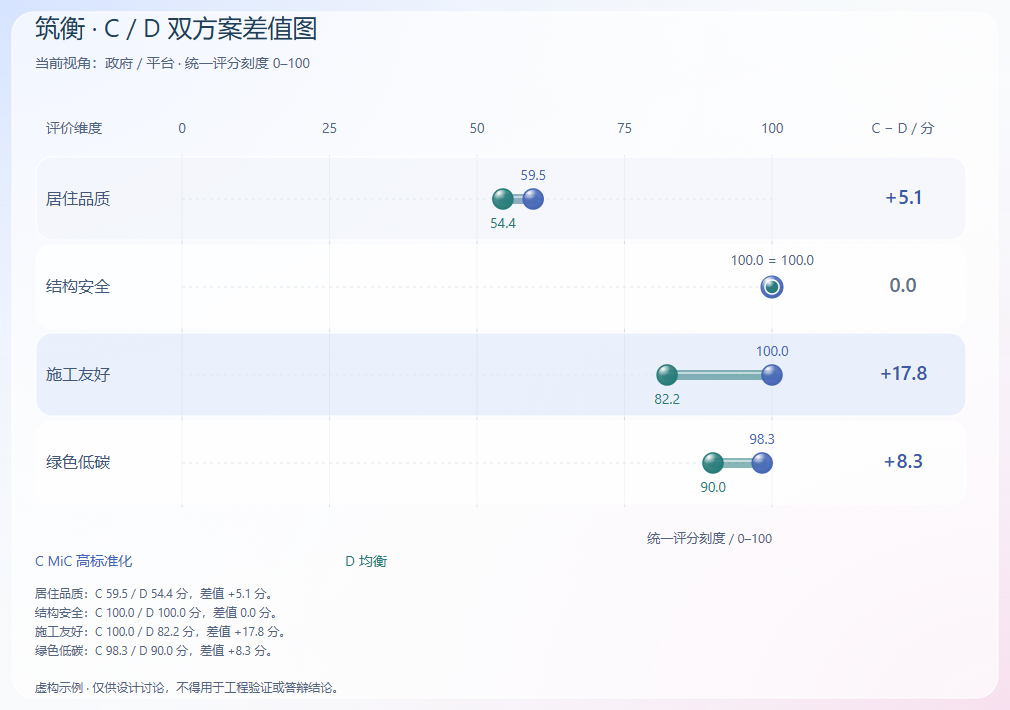
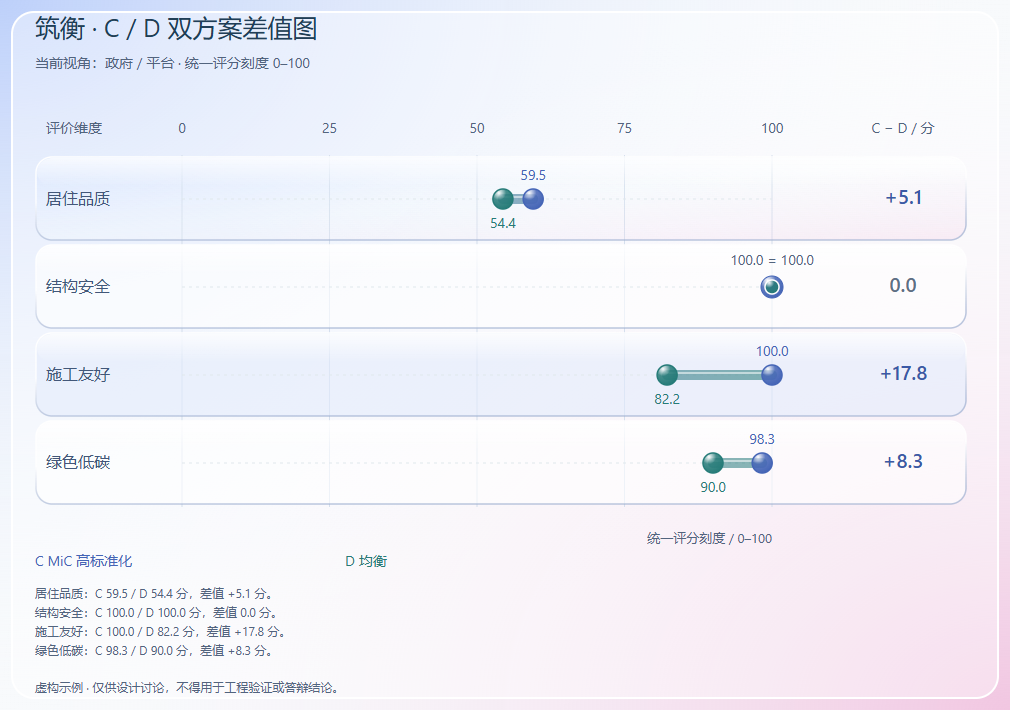
design: strengthen glass panels and chart surfaces with before-after evidence

diff --git a/design/prototype/comparison.js b/design/prototype/comparison.js
@@ -34,10 +34,10 @@ const signed = value => valid(value) ? `${Math.abs(value) < 1e-8 ? '0.0' : `${va
 // Self-contained SVG paint definitions also survive standalone export.
 // Only painted highlights: exact circle centers and score coordinates stay intact.
 function glassDefs(prefix) {
-  return `<defs>${schemes.map(s=>`<radialGradient id="${prefix}-bead-${s.id}" cx="30%" cy="20%" r="85%"><stop offset="0" stop-color="#fff" stop-opacity=".8"/><stop offset=".42" stop-color="${pointColors[s.id]}" stop-opacity=".85"/><stop offset="1" stop-color="${pointColors[s.id]}"/></radialGradient>`).join('')}<linearGradient id="${prefix}-plane" x2="1" y2="1"><stop stop-color="#eef3ff" stop-opacity=".8"/><stop offset=".5" stop-color="#fff" stop-opacity=".5"/><stop offset="1" stop-color="#fbecf5" stop-opacity=".65"/></linearGradient></defs>`;
+  return `<defs>${schemes.map(s=>`<radialGradient id="${prefix}-bead-${s.id}" cx="30%" cy="20%" r="85%"><stop offset="0" stop-color="#fff" stop-opacity=".8"/><stop offset=".42" stop-color="${pointColors[s.id]}" stop-opacity=".85"/><stop offset="1" stop-color="${pointColors[s.id]}"/></radialGradient>`).join('')}<linearGradient id="${prefix}-plane" x2="1" y2="1"><stop stop-color="#cbdcff" stop-opacity=".75"/><stop offset=".5" stop-color="#f5fdff" stop-opacity=".3"/><stop offset="1" stop-color="#f2cfe7" stop-opacity=".55"/></linearGradient><linearGradient id="${prefix}-rim" x2=".3" y2="1"><stop stop-color="#fff"/><stop offset=".5" stop-color="#fff" stop-opacity=".85"/><stop offset="1" stop-color="#9eafd0" stop-opacity=".7"/></linearGradient><linearGradient id="${prefix}-sheen" x2="0" y2="1"><stop stop-color="#fff" stop-opacity=".8"/><stop offset="1" stop-color="#fff" stop-opacity="0"/></linearGradient></defs>`;
 }
 function exportGlassBackdrop(width,height) {
-  return `<defs><radialGradient id="export-blue" cx="0" cy="0" r="1"><stop stop-color="#d6e3ff"/><stop offset="1" stop-color="#f8fafc" stop-opacity="0"/></radialGradient><radialGradient id="export-pink" cx="1" cy="1" r="1"><stop stop-color="#f7e0ef"/><stop offset="1" stop-color="#f8fafc" stop-opacity="0"/></radialGradient></defs><rect width="${width}" height="${height}" fill="#f8fafc"/><rect width="${width}" height="${height}" fill="url(#export-blue)"/><rect width="${width}" height="${height}" fill="url(#export-pink)"/><rect x="12" y="12" width="${width-24}" height="${height-24}" rx="22" fill="#fff" fill-opacity=".65" stroke="#fff"/>`;
+  return `<defs><radialGradient id="export-blue" cx="0" cy="0" r="1"><stop stop-color="#bdd0fa"/><stop offset="1" stop-color="#f8fafc" stop-opacity="0"/></radialGradient><radialGradient id="export-pink" cx="1" cy="1" r="1"><stop stop-color="#f1c6e1"/><stop offset="1" stop-color="#f8fafc" stop-opacity="0"/></radialGradient></defs><rect width="${width}" height="${height}" fill="#f8fafc"/><rect width="${width}" height="${height}" fill="url(#export-blue)"/><rect width="${width}" height="${height}" fill="url(#export-pink)"/><rect x="12" y="12" width="${width-24}" height="${height-24}" rx="22" fill="#fff" fill-opacity=".4" stroke="#fff" stroke-width="2"/>`;
 }
 
 function heat(value) {
@@ -76,7 +76,7 @@ function makePlot() {
     const lineY = Math.max(labelBox.y, Math.min(labelBox.y + labelBox.h, py));
     return `<g class="svg-point" data-point="${id}" role="button" tabindex="0" aria-label="${escapeText(s.name)}，${dimensions[state.x].name} ${one(xv)}分，${dimensions[state.y].name} ${one(yv)}分${isPareto(id) ? '，四维非劣' : ''}"><title>${escapeText(s.name)} · ${one(xv)}, ${one(yv)}${excluded(id) ? ' · 硬约束未通过' : isPareto(id) ? ' · 四维非劣' : ''}</title><line x1="${px}" y1="${py}" x2="${lineX}" y2="${lineY}" stroke="${color}" stroke-opacity=".4"/>${selected ? `<circle cx="${px}" cy="${py}" r="25" fill="${color}" fill-opacity=".12"/>` : ''}${isPareto(id) ? `<circle class="pareto-ring" cx="${px}" cy="${py}" r="18" fill="none" stroke="${color}" stroke-width="1.5"/>` : ''}<circle class="point-core" cx="${px}" cy="${py}" r="12" fill="${excluded(id) ? '#fff' : `url(#map-bead-${id})`}" stroke="${color}" stroke-width="2" ${excluded(id) ? 'stroke-dasharray="3 2"' : ''}/><text x="${px}" y="${py + 4}" text-anchor="middle" fill="${excluded(id) ? color : '#fff'}" font-size="12" font-weight="600" pointer-events="none">${s.letter}</text><rect class="point-label-box" x="${labelBox.x}" y="${labelBox.y}" width="${w}" height="${h}" fill="${selected ? '#e6f0f6' : '#fff'}" fill-opacity=".93" rx="9"/><text x="${labelBox.x + 6}" y="${labelBox.y + 19}" fill="${color}" font-size="14" font-weight="${selected ? 600 : 500}" pointer-events="none">${escapeText(label)}</text></g>`;
   }).join('');
-  return `<svg id="scatter-svg" xmlns="http://www.w3.org/2000/svg" viewBox="0 0 ${W} ${H}" role="img" aria-label="${dimensions[state.x].name}与${dimensions[state.y].name}二维取舍图" style="font-family:Segoe UI,Microsoft YaHei,sans-serif">${glassDefs('map')}<rect x="${left}" y="${top}" width="${width}" height="${height}" fill="url(#map-plane)" stroke="#cbd6e9" rx="18"/>${lines}<text x="${left}" y="22" fill="#425779" font-size="15">${dimensions[state.y].name} / 100 分 ↑</text><text x="${left + width}" y="${H - 10}" text-anchor="end" fill="#425779" font-size="15">${dimensions[state.x].name} / 100 分 →</text>${points}</svg>`;
+  return `<svg id="scatter-svg" xmlns="http://www.w3.org/2000/svg" viewBox="0 0 ${W} ${H}" role="img" aria-label="${dimensions[state.x].name}与${dimensions[state.y].name}二维取舍图" style="font-family:Segoe UI,Microsoft YaHei,sans-serif">${glassDefs('map')}<rect x="${left}" y="${top}" width="${width}" height="${height}" fill="url(#map-plane)" stroke="url(#map-rim)" stroke-width="2" rx="18"/><rect x="${left+1}" y="${top+1}" width="${width-2}" height="${height*.27}" rx="18" fill="url(#map-sheen)" pointer-events="none"/>${lines}<text x="${left}" y="22" fill="#425779" font-size="15">${dimensions[state.y].name} / 100 分 ↑</text><text x="${left + width}" y="${H - 10}" text-anchor="end" fill="#425779" font-size="15">${dimensions[state.x].name} / 100 分 →</text>${points}</svg>`;
 }
 
 function mapSchemes() {
@@ -102,7 +102,7 @@ function makePairPlot() {
     const y = top + 44 + rowGap * index, va = score(a.id, index), vb = score(b.id, index), delta = pairDifference(index);
     const validA = valid(va), validB = valid(vb), same = validA && validB && Math.abs(delta) < 1e-8;
     const points = same ? `<circle cx="${x(va)}" cy="${y}" r="11" fill="url(#pair-bead-${a.id})" stroke="${ca}"/><circle cx="${x(vb)}" cy="${y}" r="7" fill="url(#pair-bead-${b.id})" stroke="#fff" stroke-width="1.5"/><text x="${x(va)}" y="${y - 22}" text-anchor="middle" fill="#52647e" font-size="14">${one(va)} = ${one(vb)}</text>` : `${validA ? `<circle cx="${x(va)}" cy="${y}" r="10" fill="url(#pair-bead-${a.id})" stroke="${ca}" stroke-width="1.5"/><text x="${x(va)}" y="${y - 19}" text-anchor="middle" fill="${ca}" font-size="14">${one(va)}</text>` : ''}${validB ? `<circle cx="${x(vb)}" cy="${y}" r="10" fill="url(#pair-bead-${b.id})" stroke="${cb}" stroke-width="1.5"/><text x="${x(vb)}" y="${y + 29}" text-anchor="middle" fill="${cb}" font-size="14">${one(vb)}</text>` : ''}`;
-    return `<g data-pair-row="${index}" role="button" tabindex="0" class="svg-point" aria-label="${dim.name}，${a.letter} ${one(va)}分，${b.letter} ${one(vb)}分，差值 ${signed(delta)}分，查看评分依据"><title>${dim.name}：${a.letter} ${one(va)} / ${b.letter} ${one(vb)} 分</title><rect x="6" y="${y - 42}" width="930" height="83" rx="16" stroke="#fff" fill="${state.dimension === index ? '#e3ebfc' : index % 2 === 0 ? '#f3f5fc' : '#fff'}" fill-opacity=".7"/><text x="16" y="${y + 5}" fill="#425779" font-size="16">${dim.name}</text><line x1="${left}" y1="${y}" x2="${left + width}" y2="${y}" stroke="#e0e8ed" stroke-dasharray="3 4"/>${validA && validB ? `<line x1="${x(va)}" y1="${y}" x2="${x(vb)}" y2="${y}" stroke="url(#pair-bridge)" stroke-opacity=".55" stroke-width="10" stroke-linecap="round"/><line x1="${x(va)}" y1="${y-2}" x2="${x(vb)}" y2="${y-2}" stroke="#fff" stroke-opacity=".7" stroke-width="1.5" stroke-linecap="round"/>` : ''}${points}<text class="pair-difference" x="873" y="${y + 5}" text-anchor="middle" font-size="20" font-weight="600" fill="${!valid(delta) || same ? '#5e6f86' : delta > 0 ? '#3b59a6' : '#92612c'}">${signed(delta)}</text></g>`;
+    return `<g data-pair-row="${index}" role="button" tabindex="0" class="svg-point" aria-label="${dim.name}，${a.letter} ${one(va)}分，${b.letter} ${one(vb)}分，差值 ${signed(delta)}分，查看评分依据"><title>${dim.name}：${a.letter} ${one(va)} / ${b.letter} ${one(vb)} 分</title><rect x="6" y="${y - 42}" width="930" height="83" rx="16" stroke="url(#pair-rim)" stroke-width="1.5" fill="${state.dimension === index ? '#e3ebfc' : index % 2 === 0 ? 'url(#pair-plane)' : '#fff'}" fill-opacity=".6"/><rect x="7" y="${y-41}" width="928" height="28" rx="15" fill="url(#pair-sheen)" pointer-events="none"/><text x="16" y="${y + 5}" fill="#425779" font-size="16">${dim.name}</text><line x1="${left}" y1="${y}" x2="${left + width}" y2="${y}" stroke="#e0e8ed" stroke-dasharray="3 4"/>${validA && validB ? `<line x1="${x(va)}" y1="${y}" x2="${x(vb)}" y2="${y}" stroke="url(#pair-bridge)" stroke-opacity=".55" stroke-width="10" stroke-linecap="round"/><line x1="${x(va)}" y1="${y-2}" x2="${x(vb)}" y2="${y-2}" stroke="#fff" stroke-opacity=".7" stroke-width="1.5" stroke-linecap="round"/>` : ''}${points}<text class="pair-difference" x="873" y="${y + 5}" text-anchor="middle" font-size="20" font-weight="600" fill="${!valid(delta) || same ? '#5e6f86' : delta > 0 ? '#3b59a6' : '#92612c'}">${signed(delta)}</text></g>`;
   }).join('');
   return `<svg id="pair-svg" xmlns="http://www.w3.org/2000/svg" viewBox="0 0 ${W} ${H}" style="font-family:Segoe UI,Microsoft YaHei,sans-serif" role="img" aria-label="${escapeText(a.name)}与${escapeText(b.name)}四维差值图">${glassDefs('pair')}<defs><linearGradient id="pair-bridge" gradientUnits="userSpaceOnUse" x1="${left}" x2="${left+width}"><stop stop-color="${ca}"/><stop offset="1" stop-color="${cb}"/></linearGradient></defs><text x="16" y="30" fill="#52647e" font-size="14">评价维度</text><text x="873" y="30" text-anchor="middle" fill="#52647e" font-size="14">${a.letter} − ${b.letter} / 分</text>${grid}${rows}<text x="${left + width}" y="${H - 8}" text-anchor="end" fill="#52647e" font-size="13">统一评分刻度 / 0–100</text></svg>`;
 }

diff --git a/design/prototype/comparison-glass.css b/design/prototype/comparison-glass.css
@@ -8,9 +8,10 @@
   --line: #d5dfed;
   --bg: #f8fafc;
   --red: #a4444d;
-  --glass: rgba(255,255,255,.62);
+  --glass: rgba(255,255,255,.36);
   --glass-edge: rgba(255,255,255,.9);
-  --glass-shadow: 0 16px 44px #344b8010, inset 0 1px 0 #fff;
+  --glass-shadow: 0 18px 45px #344b8024, 0 3px 8px #344b8010,
+    inset 0 2px 1px #ffffffed, inset 0 -1px 1px #9aaacf40;
   --table-paper: #fafcff;
   --table-subtle: #f0f4fb;
   --table-group: #ebf0fa;
@@ -28,8 +29,9 @@
 }
 body {
   background:
-    radial-gradient(ellipse 70% 65% at 0% 0%, #7da7ff5c, transparent 75%),
-    radial-gradient(ellipse 65% 70% at 100% 100%, #f7a4cf52, transparent 75%),
+    radial-gradient(ellipse 65% 65% at 7% 10%, #7a9ffb91, transparent 78%),
+    radial-gradient(ellipse 45% 60% at 70% 56%, #a2dcde61, transparent 80%),
+    radial-gradient(ellipse 55% 65% at 100% 88%, #efa6d48a, transparent 78%),
     var(--bg);
   background-attachment: fixed;
 }
@@ -64,20 +66,27 @@ body {
 .sample-tag { border-radius: 20px; background: #fff8ec; color: #75542d; }
 h1 { color: var(--ink); }
 .comparison-panel, .decision-strip, .detail-panel, .reading-panel {
-  background: var(--glass);
+  background: linear-gradient(135deg,#ffffff6b,transparent 45%,#ffffff24), var(--glass);
   border: 1px solid var(--glass-edge);
   border-radius: 22px;
   box-shadow: var(--glass-shadow);
   backdrop-filter: blur(20px) saturate(140%);
   -webkit-backdrop-filter: blur(20px) saturate(140%);
 }
-.decision-strip { background: linear-gradient(120deg,#ffffffa6,#eaf0ff73); }
+.decision-strip { background: linear-gradient(120deg,#ffffff99,#dbe7ff4d); }
 .decision-stat { border-left-color: #b4c4e257; }
 .lead-letter { color: #4565b6; }
 .tiny, .decision-stat > span, .decision-stat small { color: var(--muted); }
 .badge, .live-chip { border-radius: 20px; }
 .blue { background: #e0e9fb; color: #3b59a6; }
-.panel-toolbar { background: #ffffff32; }
+.panel-toolbar {
+  margin: 16px 16px 0; padding: 0 14px;
+  background: linear-gradient(120deg,#ffffffc2,#ffffff57);
+  border: 1px solid #fff; border-radius: 18px;
+  box-shadow: 0 8px 20px #526a9b18, inset 0 2px 1px #fff, inset 0 -1px 1px #a1b5d240;
+  backdrop-filter: blur(14px) saturate(140%);
+  -webkit-backdrop-filter: blur(14px) saturate(140%);
+}
 .view-tabs { align-items: center; gap: 5px; padding-block: 12px; }
 .view-tab {
   min-height: 44px; padding: 10px 14px; border: 1px solid transparent;
@@ -111,9 +120,21 @@ input[type=checkbox] { accent-color: #4565c0; }
 .export-button:hover, .primary-button:hover { background: linear-gradient(145deg,#526ebf,#344d9b); }
 .export-button span { color: #fff; }
 .map-focus, .pair-story, .matrix-inspector {
-  background: linear-gradient(140deg,#ffffffcc,#e7eef97d);
+  background: linear-gradient(140deg,#ffffffc2,#ffffff52 45%,#cbd9f238);
   border: 1px solid #ffffffeb; border-radius: 18px;
-  box-shadow: inset 0 1px 0 #fff, 0 6px 18px #344b8009;
+  box-shadow: inset 0 2px 1px #fff, inset 0 -1px 1px #8aa0c040, 0 12px 26px #344b8021;
+  backdrop-filter: blur(12px); -webkit-backdrop-filter: blur(12px);
+}
+.map-controls, .pair-controls {
+  margin: 0 23px 16px; padding: 10px 14px;
+  background: linear-gradient(120deg,#ffffffad,#ffffff4d);
+  border: 1px solid #ffffffdd; border-radius: 16px;
+  box-shadow: inset 0 2px 1px #fff, 0 5px 12px #344b8012;
+}
+.plot-wrap, .pair-plot {
+  padding: 8px; border: 1px solid #fff; border-radius: 22px;
+  background: linear-gradient(135deg,#ffffff70,#ffffff21);
+  box-shadow: 0 10px 26px #344b801c, inset 0 2px 1px #fff, inset 0 -1px 1px #8198bd4d;
 }
 .focus-state span { border-radius: 20px; background: #ffffff88; color: #3e5d94; border-color: #c1d0ed; }
 .focus-row b, .pair-story strong, .pair-largest, .detail-score { color: #3b59a6; }
@@ -135,7 +156,10 @@ input[type=checkbox] { accent-color: #4565c0; }
 .scheme-filter { border-radius: 12px; background: #ffffffb3; }
 .matrix-display { border-radius: 12px; }
 .scheme-filter-line { background: #ffffff32; }
-#view-matrix .matrix-scroll { border-radius: 14px; background: var(--table-paper); }
+#view-matrix .matrix-scroll {
+  border-radius: 16px; background: var(--table-paper);
+  border: 1px solid #fff; box-shadow: 0 10px 24px #344b801f, 0 0 0 1px #9daece4d;
+}
 #matrix th[data-column="1"] .table-scheme-title > span { color: #7465ab; }
 #matrix th[data-column="2"] .table-scheme-title > span { color: #a4444d; }
 #matrix th[data-column="3"] .table-scheme-title > span { color: #4565b6; }
@@ -158,20 +182,28 @@ input[type=checkbox] { accent-color: #4565c0; }
 .constraint-note small { color: #80535b; }
 .inspector-number small, .detail-score small { color: var(--muted); }
 @supports not ((backdrop-filter: blur(1px)) or (-webkit-backdrop-filter: blur(1px))) {
-  .sidebar, .topbar, .comparison-panel, .decision-strip, .detail-panel, .reading-panel { background: #f7f9fe; }
+  .sidebar, .topbar, .comparison-panel, .decision-strip, .detail-panel, .reading-panel,
+  .panel-toolbar, .map-focus, .pair-story, .matrix-inspector { background: #f7f9fe; }
 }
 @media (prefers-reduced-transparency: reduce) {
   body { background: #f8fafc; }
   .sidebar, .topbar, .comparison-panel, .decision-strip, .detail-panel, .reading-panel,
-  .map-focus, .pair-story, .matrix-inspector, #matrix-detail-dialog {
+  .map-focus, .pair-story, .matrix-inspector, .panel-toolbar, .map-controls, .pair-controls,
+  .plot-wrap, .pair-plot, #matrix-detail-dialog {
     background: #f8faff; backdrop-filter: none; -webkit-backdrop-filter: none;
   }
 }
-@media (max-width:980px) { .view-tabs { min-height: 60px; } }
+@media (max-width:980px) {
+  .view-tabs { min-height: 60px; }
+  .panel-toolbar { padding-bottom: 12px; }
+}
 @media (max-width:700px) {
   .comparison-panel, .decision-strip, .detail-panel, .reading-panel { border-radius: 18px; }
   .view-tabs { gap: 3px; }
   .view-tab { padding: 10px; font-size: 12px; }
+  .panel-toolbar { margin: 10px 10px 0; padding-inline: 8px; }
+  .map-controls, .pair-controls { margin: 0 10px 14px; padding: 10px; }
+  .plot-wrap, .pair-plot { padding: 2px; border-radius: 16px; }
   .map-focus { border-radius: 14px; }
   .role-picker { gap: 0; }
   #matrix-detail-dialog { border-radius: 22px 22px 0 0; }

diff --git a/design/prototype/comparison.html b/design/prototype/comparison.html
@@ -14,7 +14,7 @@
     <a class="nav-link" href="index.html"><span>01</span>项目与方案</a>
     <div class="nav-link active"><span>02</span>多方案对比<i>↗</i></div>
     <a class="nav-link" href="index.html"><span>03</span>推演与报告</a>
-    <div class="side-foot"><span class="status-dot"></span> 展示设计 · V5<small>看整体 → 比两套 → 查全表</small></div>
+    <div class="side-foot"><span class="status-dot"></span> 展示设计 · V5.1<small>看整体 → 比两套 → 查全表</small></div>
   </aside>
   <main>
     <header class="topbar"><span>杭州钱塘 · 保障性租赁住房 <b>/</b> 多方案比选</span><span class="sample-tag">虚构示例 · 设计讨论</span></header>

diff --git a/design/glass-chart-handoff.md b/design/glass-chart-handoff.md
@@ -1,4 +1,4 @@
-# 玻璃风图表交接 · V5
+# 玻璃风图表交接 · V5.1
 
 ## 这次交付
 
@@ -8,9 +8,9 @@
 
 | 层次 | 参数 | 用法 |
 | --- | --- | --- |
-| 背景 | #f8fafc；左上蓝紫 #7da7ff / 36%；右下粉 #f7a4cf / 32% | 静态径向渐变，中心保持清爽 |
-| 一级玻璃 | 主面板白 / 62%，侧栏约 34%，顶栏约 44%；blur 20px；saturate 140%；白边 / 90% | 主面板和摘要圆角 22px，侧栏与顶栏保持布局边界 |
-| 二级内容 | 白到浅蓝渐变；圆角 18px | 当前方案、差值小结、评分依据 |
+| 背景 | #f8fafc；蓝紫 #7a9ffb / 57%；青色 #a2dcde / 38%；粉 #efa6d4 / 54% | 静态径向渐变；让透明面板下面有可见颜色 |
+| 一级玻璃 | 主面板基础白 / 36%，局部白高光叠层；侧栏约 34%，顶栏约 44%；blur 20px；saturate 140%；白边 / 90% | 主面板和摘要圆角 22px，侧栏与顶栏保持布局边界；内亮边和外投影强调厚度 |
+| 二级内容 | 半透明白到浅蓝渐变；圆角 18px；轻模糊与投影 | 当前方案、差值小结、评分依据，独立于主玻璃层 |
 | 正文 / 辅助 | #23334f / #52647e | 数值、轴标签和解释不降低透明度 |
 | 方案色 | A #7465ab；B #a4444d；C #4565b6；D #267b78；E #956b32 | 所有视图保持同一方案身份；颜色不代表分数高低 |
 | 评分表 | #fafcff / #ebf0fa；选中 #e0e9fc | 实底隔离文字；细条仅辅助读数 |
@@ -20,7 +20,7 @@
 
 ### 二维取舍图
 
-画布为很淡的蓝白粉渐变，有细网格和圆角边缘。方案点使用径向渐变做玻璃珠高光；选择光环、四维非劣环、字母及名称仍保留。坐标固定为 0–100，点中心不因材质或角色发生偏移。违规 B 使用空心虚线圆与文字提示。高光不是新的数据维度。
+画布使用蓝白粉渐变、顶部反光带、渐变边缘和细网格；外层是独立的玻璃底板。方案点使用径向渐变做玻璃珠高光；选择光环、四维非劣环、字母及名称仍保留。坐标固定为 0–100，点中心不因材质或角色发生偏移。违规 B 使用空心虚线圆与文字提示。高光不是新的数据维度。
 
 **ECharts 映射：**保留 scatter 数据与坐标设置；`itemStyle.color` 可用 `echarts.graphic.RadialGradient`，边线用方案色。轴文字用辅助文字色；`splitLine` 用 #cdd8eb。绘制高光即可，避免对 canvas 使用会扭曲坐标的 SVG 位移滤镜。非劣环读取完整四维返回结果。
 

diff --git a/design/README.md b/design/README.md
@@ -10,9 +10,11 @@
 
 交付物是可点击的 [低保真流程原型](prototype/index.html)、[二维方案对比视觉稿](prototype/comparison.html) 和以下页面决策。浏览器直接打开 HTML 文件即可查看；不需要 Figma 账号。对比视觉稿使用仓库现有的虚构评分与四个角色权重，演示图表、排名与合规提醒的布局。下载时保留同目录下的 CSS、JS 与数据文件。
 
-### 二维方案对比稿 V5 · 玻璃材质
+### 二维方案对比稿 V5.1 · 玻璃材质
 
 按用户提供的 [UI 素材手册](resources/liquid-glass/Steelyard_UI_Resource_Guide.md) 调整了对比原型。静态蓝紫 / 淡粉柔光、20px 模糊、半透明白面板、白色边缘高光构成统一材质；方案点使用 SVG 径向渐变，双方案连线使用透明渐变色带。数字和坐标仍以深色呈现。密集表格使用浅色实底，固定表头、首列滚动时不会透出下面的文字。
+
+V5.1 针对用户反馈的“只有方案点变化明显”强化整张面板：主玻璃底色从白 / 62% 调为白 / 36%，叠加局部高光；增强蓝紫、青色与淡粉背景；工具栏和坐标 / 方案选择区使用独立的浮起玻璃条；图表底板、详情卡与表格容器增加边缘亮线及投影。SVG 图内也加入反光带和渐变边线。见 [相同数据的前后对照](evidence/comparison-glass-before-after.png)。
 
 材质集中在 [comparison-glass.css](prototype/comparison-glass.css)，便于前端映射到现有 Ant Design / ECharts。它实现毛玻璃与绘制高光，没有采用真正的位移折射。导出 SVG 自带背景、渐变和字体配置，离线打开即可显示；无模糊支持或减少透明度设置时使用实底。具体参数和开发映射见 [玻璃风图表交接](glass-chart-handoff.md)。
 
